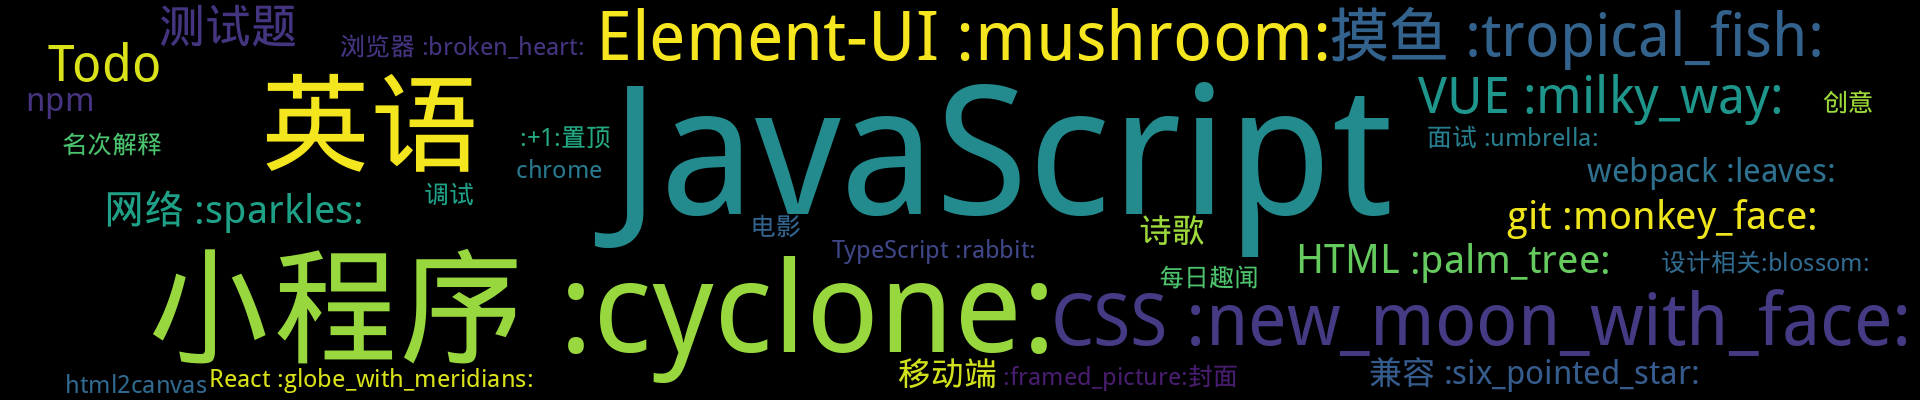
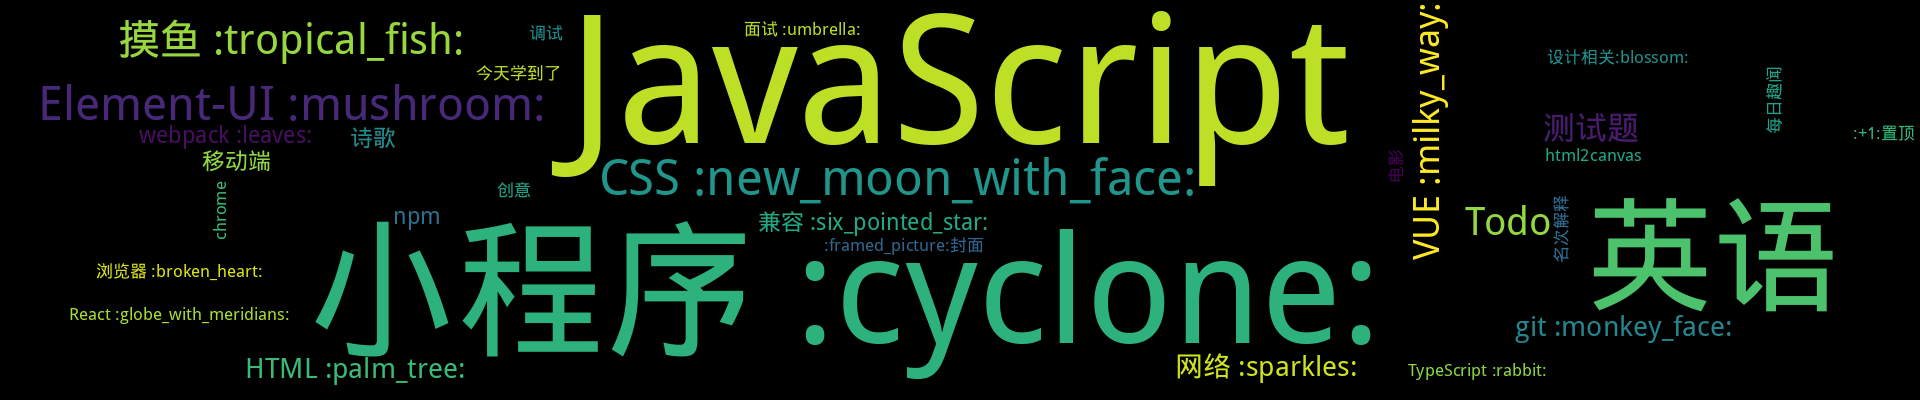
Update from Github Action

Changed region(s): [[0.0, 0.0, 1.0, 0.99], [0.9688, 0.3, 1.0, 0.36]]

diff --git a/README.md b/README.md
@@ -1,9 +1,9 @@
 
 
 <p align='center'>
-    <img src="https://badgen.net/badge/labels/39"/>
+    <img src="https://badgen.net/badge/labels/40"/>
     <img src="https://badgen.net/github/issues/smileyby/ghiblog"/>
-    <img src="https://badgen.net/badge/last-commit/2021-07-26 09:28:10"/>
+    <img src="https://badgen.net/badge/last-commit/2021-08-05 10:10:37"/>
     <img src="https://badgen.net/github/forks/smileyby/ghiblog"/>
     <img src="https://badgen.net/github/stars/smileyby/ghiblog"/>
     <img src="https://badgen.net/github/watchers/smileyby/ghiblog"/>
@@ -33,6 +33,30 @@
 ## 置顶 :thumbsup: 
 - [封面图](https://github.com/smileyby/notes-copy/issues/1)  <sup>1 :speech_balloon:</sup>  	 
 ## 最新 :new: 
+
+#### [小程序内如何引导用户关注公众号](https://github.com/smileyby/notes-copy/issues/135) <sup>0 :speech_balloon:</sup> 	 2021-08-05 10:10:07
+
+:label: : [今天学到了](https://github.com/smileyby/ghiblog/labels/%E4%BB%8A%E5%A4%A9%E5%AD%A6%E5%88%B0%E4%BA%86), [小程序 :cyclone:](https://github.com/smileyby/ghiblog/labels/%E5%B0%8F%E7%A8%8B%E5%BA%8F%20%3Acyclone%3A)
+
+1. 官方组件 [official-account](https://developers.weixin.qq.com/miniprogram/dev/component/official-account.html)
+   1. 只有固定的场景才会展示组件，具体参考文档
+   2. 组件未提供用
+
+[更多>>>](https://github.com/smileyby/notes-copy/issues/135)
+
+---
+
+
+#### [Todo：WebGL](https://github.com/smileyby/notes-copy/issues/134) <sup>0 :speech_balloon:</sup> 	 2021-07-26 09:28:19
+
+:label: : [Todo](https://github.com/smileyby/ghiblog/labels/Todo)
+
+
+
+[更多>>>](https://github.com/smileyby/notes-copy/issues/134)
+
+---
+
 
 #### [Todo：node](https://github.com/smileyby/notes-copy/issues/133) <sup>0 :speech_balloon:</sup> 	 2021-07-26 09:27:21
 
@@ -76,34 +100,6 @@ body {
 参考：[一行CSS实现全站中文简繁转换](https://www.zhangxinxu.com/wordpress/202
 
 [更多>>>](https://github.com/smileyby/notes-copy/issues/131)
-
----
-
-
-#### [EN:Tell me about it](https://github.com/smileyby/notes-copy/issues/130) <sup>0 :speech_balloon:</sup> 	 2021-07-21 06:38:13
-
-:label: : [英语](https://github.com/smileyby/ghiblog/labels/%E8%8B%B1%E8%AF%AD)
-
-Tell me about it 字面意思是“告诉我吧”或“展开说说吧”，在美国俚语中这句话常常表示赞成对方的话，要理解为“那当然”，“可不是嘛”，我理解你！
-🌰 【例句】
-A：His attitude is driving me crazy.  他的态度真的快让我疯掉了。
-B：Tell me
-
-[更多>>>](https://github.com/smileyby/notes-copy/issues/130)
-
----
-
-
-#### [Chrome 调试移动端H5页面](https://github.com/smileyby/notes-copy/issues/129) <sup>0 :speech_balloon:</sup> 	 2021-07-21 02:49:53
-
-:label: : [chrome](https://github.com/smileyby/ghiblog/labels/chrome), [移动端](https://github.com/smileyby/ghiblog/labels/%E7%A7%BB%E5%8A%A8%E7%AB%AF), [调试](https://github.com/smileyby/ghiblog/labels/%E8%B0%83%E8%AF%95)
-
-## 安卓
-1. 手机端：关于手机 => 点击版本号(多次) => 开启开发者模式 => 进入开发者模式 => 开启 “USB调试” 和 “仅在充电模式下允许ADB调试”  
-2. 开发手机默认浏览器（系统浏览器），打开需要调试的移动端网址
-3. chrome浏览器打开 [chrome://i
-
-[更多>>>](https://github.com/smileyby/notes-copy/issues/129)
 
 ---
 
@@ -162,8 +158,9 @@ B：Tell me
 </details>
 
 <details>
-<summary>小程序 :cyclone:	<sup>18:newspaper:</sup></summary>
+<summary>小程序 :cyclone:	<sup>19:newspaper:</sup></summary>
 
+- [小程序内如何引导用户关注公众号](https://github.com/smileyby/notes-copy/issues/135)  <sup>0 :speech_balloon:</sup>  	 
 - [小程序：微信api=>wxacode.get=>生成小程序码并不支持白色线条](https://github.com/smileyby/notes-copy/issues/112)  <sup>0 :speech_balloon:</sup>  	 
 - [小程序：todo-list](https://github.com/smileyby/notes-copy/issues/27)  <sup>0 :speech_balloon:</sup>  	 
 - [小程序：TEXT标签还能嵌套text标签，其他标签无效 ](https://github.com/smileyby/notes-copy/issues/26)  <sup>0 :speech_balloon:</sup>  	 
@@ -519,6 +516,14 @@ B：Tell me
 <summary>chrome	<sup>1:newspaper:</sup></summary>
 
 - [Chrome 调试移动端H5页面](https://github.com/smileyby/notes-copy/issues/129)  <sup>0 :speech_balloon:</sup>  	 
+
+
+</details>
+
+<details>
+<summary>今天学到了	<sup>1:newspaper:</sup></summary>
+
+- [小程序内如何引导用户关注公众号](https://github.com/smileyby/notes-copy/issues/135)  <sup>0 :speech_balloon:</sup>  	 
 
 
 </details>
